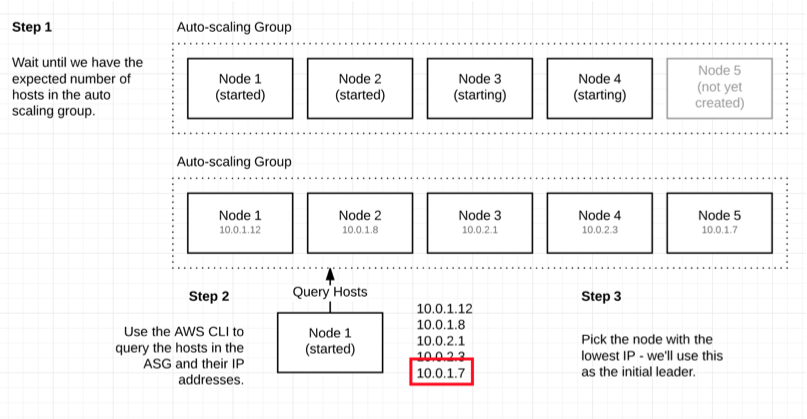
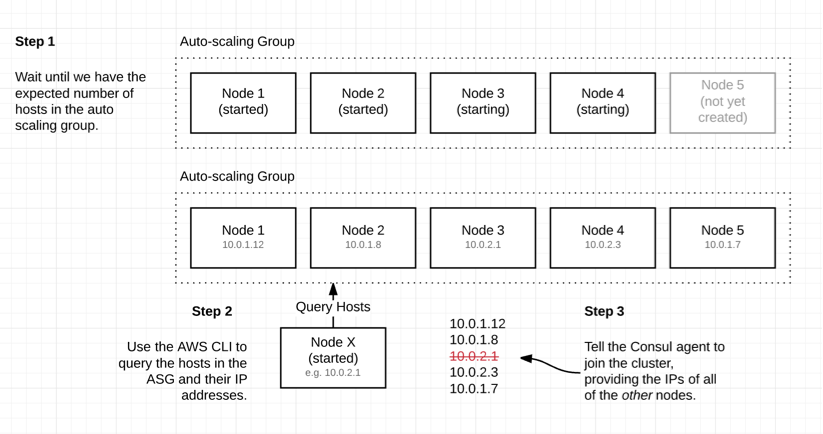
Completed the write up.

diff --git a/article/article.md b/article/article.md
@@ -305,23 +305,19 @@ docker run -d --net=host \
     -bootstrap-expect="5"
 ```
 
-The problem is **this won't work**... We need to tell each node the address of *another* server in the cluster. For example, if we start five nodes, we should tell nodes 2-5 the address of node 1, so that the nodes can discover each other:
-
-![Diagram showing five nodes starting, all joining node 1](/content/images/2017/01/img-11-join-cluster.png)
-
-Every time a new node joins node 1, it will get its IP and broadcast it to the nodes which have originally joined.
+The problem is **this won't work**... We need to tell each node the address of *another* server in the cluster. For example, if we start five nodes, we should tell nodes 2-5 the address of node 1, so that the nodes can discover each other.
 
 The challenge is how do we get the IP of node 1? The IP addresses are determined by the network, we don't preset them so cannot hard code them. Also, we can expect nodes to occasionally die and get recreated, so the IP addresses of nodes will in fact change over time.
 
 ### Getting the IP addresses of nodes in the cluster
 
-There's a nice trick we can use here. We can ask AWS to give us the IP addresses of each host in the auto-scaling group. We then pick an arbitrary IP address to be the leader. Each node needs to pick the *same* leader. A trivial way to do this is simply pick the lowest IP address of the set:
+There's a nice trick we can use here. We can ask AWS to give us the IP addresses of each host in the auto-scaling group. If we tell each node the addresses of the *other nodes*, then they will elect a leader themselves[^14].
 
-![Diagram showing how we decide on a leader IP](/content/images/2017/01/img-12-choose-leader.png)
+![Diagram showing how we decide on a leader IP](/content/images/2017/01/img-12-choose-leader-1.png)
 
 There are a couple of things we need to do to get this right. First, update the userdata script to pick the leader IP, then update the **role** of our nodes so that they have permissions to use the APIs we're going to call.
 
-### Picking a leader IP
+### Getting the Cluster IPs
 
 This is actually fairly straightforward. We update our userdata script to the below:
 
@@ -370,17 +366,19 @@ do
     sleep 1
 done 
 
-# Get my IP address and the initial leader IP address.
+# Get my IP address, all IPs in the cluster, then just the 'other' IPs...
 IP=$(curl http://169.254.169.254/latest/meta-data/local-ipv4)
-LEADER_IP=$(cluster-ips | sort | head -1)
-echo "Instance IP is: $IP, Initial Leader IP is: $LEADER_IP"
+mapfile -t ALL_IPS < <(cluster-ips)
+OTHER_IPS=( ${ALL_IPS[@]/{$IP}/} )
+echo "Instance IP is: $IP, Cluster IPs are: ${CLUSTER_IPS[@]}, Other IPs are: ${OTHER_IPS[@]}"
 
 # Start the Consul server.
 docker run -d --net=host \
     --name=consul \
     consul agent -server -ui \
-    -bind="$IP" -retry-join="$LEADER_IP" \
-    -client="0.0.0.0" \
+    -bind="$IP" \
+    -retry-join="${OTHER_IPS[0]}" -retry-join="${OTHER_IPS[1]}" \
+    -retry-join="${OTHER_IPS[2]}" -retry-join="${OTHER_IPS[3]}" \
     -bootstrap-expect="$EXPECTED_SIZE"
 ```
 
@@ -390,10 +388,9 @@ Right, here's what's going on:
 2. We create a `cluster-instance-ids` function which returns the ID of each instance in the auto-scaling group
 3. We create a `cluster-ips` function which returns the private IP address of each instance in the cluster.
 4. We wait until the auto-scaling group has our expected number of instances (it can take a while for them all to be created)
-5. We get the 5 IP addresses and arbitrarily pick the lowest one as the leader
-6. We start the Consul agent in server mode, expecting 5 nodes and offering the leader IP
-
-What is is important is that each instance will use the *same* leader IP to join the cluster[^14].
+5. We get the 5 IP addresses
+6. We remove our IP from the array, leaving us with the IPs of the *other* nodes
+7. We start the Consul agent in server mode, expecting 5 nodes and offering the IP of each other agent
 
 The problem is, if we try to run the script we will fail, because calling the AWS APIs requires some permissions we don't have. Let's fix that.
 
@@ -493,7 +490,9 @@ On a new EC2 instance, running in either subnet, with the same roles as the Cons
 ```
 # Install Docker
 sudo su
-yum update -y aws-cli docker
+yum update -y 
+yum install docker
+service docker start
 
 # Get my IP and the IP of any node in the server cluster.
 IP=$(curl http://169.254.169.254/latest/meta-data/local-ipv4)
@@ -535,34 +534,43 @@ Now we can check the Consul UI:
 
 ![The Consul UI showing a new service](/content/images/2017/01/img-15-sample-service.png)
 
-And there we have it. Our new node joins the cluster (as a client), we can register a new service and discover it later.
+And there we have it. Our new node joins the cluster (as a client), we can register a new service with Consul.
 
 ## Step 5 - Spanner Throwing
 
-Let's run some tests to see how resilient we are. We should at the very least try:
+According to the [Deployment Table](https://www.consul.io/docs/internals/consensus.html#deployment-table) from the Consul documentation, a cluster of five nodes means we have a quorum of three nodes (i.e. a minimum of three nodes are needed for a working system). This means we can tolerate the failure of two nodes.
 
-1. Killing a consul node, does it build a new quorum automatically and correctly? How long does it take?
-2. Killing the consul leader, same question as above?
-3. Killing 4 nodes at once, can we get back to a quorum?
-4. Spend one hour killing a random node every five minutes, do we maintain a quorum whenever possible?
-5. Kill every node, see what happens!
+The easiest way to test this is to simply manually kill two nodes:
 
-[Netflix](TODO) popularised tests like this with programs such as [Chaos Monkey](TODO) which run around a network killing things, but this is not a new practice. When designing systems it's great to play these kind of games; try and break the system, find novel ways to exercise its robustness. We don't necessarily need to be able to survive each scenario, if there are scenarios we know we cannot recover from automatically, that's fine, at least we can build a playbook for the devops team so we can be prepared.
+![Screenshot showing two AWS instances being terminated](/content/images/2017/01/img-16-terminate.png)
 
-Here's a snippet which kills a random node:
+If we pick two random nodes, as above, and terminate them, we see the cluster determines that we have two failed nodes but will still function (if one was the leader, a new leader will be automatically elected):
 
-```bash
-```
+![Screenshot showing the cluster highlighting two failed nodes](/content/images/2017/01/img-17-node-failure.png)
 
-I've used bash to do the work, more sophisticated tests might be better written in code. The rest of the tests are available to look over in the [./tests](TODO) folder.
+What's nice about this setup is that no manual action is needed to recover. Our load balancer will notice the nodes are unhealthy and stop forwarding traffic. Our auto-scaling group will see the nodes have terminated and create two new ones, which will join the cluster in the same way as the original nodes. Once they join, the load balancer will find them healthy and bring them back into rotation.
+
+We can see from the load balancer monitoring that it notices we have unhealthy nodes and also notices when new ones come into service:
+
+![Screenshot showing the load balancer monitoring](/content/images/2017/01/img-18-recovery-1.png)
+
+A quick check of the admin dashboard shows we now have a recovered system, with five healthy nodes:
+
+![Screenshot showing recovered system]()
+
+There's another failure earlier, a node was lost when I accidentally deleted it rather than the test instance I was running scripts on!
 
 ## Wrapping Up
 
-There's a lot to see here, particularly if you are not particularly familiar with AWS. However, this should provide a good starting point to think about building your own resilient and robust systems. Interesting areas to look into to extend the project might be:
+There's a lot to learn here, particularly if you are not particularly familiar with AWS. However, this should provide a good starting point to think about building your own resilient and robust systems.
 
-1. Automating the tests: Programatically monitor the cluster membership, if each test doesn't eventually result in a cluster of five nodes, the test fails.
-2. Scaling by load: Reduce the quorum to three when load is low, scale up to five only as needed.
-3. Breaking out the script: Instead of using a `user data` script to set up a node, bake it into a new custom AMI with [Packer]()
+Interesting areas to look into to extend the project would be:
+
+1. Setting up alerts so that if we lose more than one node, we are informed
+2. Automating resilience tests by programatically bringing down servers and monitoring how long it takes the system to return to five nodes
+3. Auto-scaling by load by reducing the cluster to three when load is low, scale up to five only as needed
+4. Breaking out the script: Instead of using a `user data` script to set up a node, bake it into a new custom AMI with [Packer](https://www.packer.io/)
+5. Adding alerts for if we lose three of more nodes, which always requires manual intervention (see [Outage Recovery](https://www.consul.io/docs/guides/outage.html))
 
 If you find this article, please do let me know. Any questions or comments are welcome!
 
@@ -570,24 +578,27 @@ If you find this article, please do let me know. Any questions or comments are w
 
 ## Appendix 1: Logging
 
-I would not normally create a userdata script expect everything to work, there's too much that can go wrong. I actually set up the server like this is:
+Small typos or mistakes in the userdata script are almost impossible to effectively diagnose. The scripts were actually built in this way:
 
 1. Draft a script on my local machine which configures script logging and CloudWatch[^13]
 2. Spin up a new EC2 instance manually
 3. SSH onto the instance, and run the script line by line until I'm sure it's right
 
-This'll often take a few attempts, particularly to get security groups right (which will require recreating the instance). I've deliberately omitted the code which relates to CloudWatch and logging setup as it is purely for admin diagnostics and doesn't contribute to the main topic. If you want more details, let me know, or just check the code.
+This'll often take a few attempts, particularly to get security groups right (which will require recreating the instance). 
 
-TODO relevant lines:
-- a
-- b
-- c
+I've included CloudWatch logging in the actual setup, so that it is easy to check the userdata script log, docker logs and so on. I've deliberately omitted the code which relates to this as it is purely for diagnostics and doesn't contribute to the main topic. If you want more details, let me know, or just check the code. I would heartily recommend setting up logging like this for all but the most straightforward projects:
+
+![Screenshot showing logs](/content/images/2017/01/img-19-cloudwatch-1.png)
+
+Being able to diagnose issues like this is vital when working with distributed systems which may be generating many log files.
 
 ---
 
+**Footnotes**
+
 [^1]: This kind of pattern is critical in the world of microservices, where many small services will be running on a cluster. Services may die, due to errors or failing hosts, and be recreated on new hosts. Their IPs and ports may be ephemeral.It is essential that the system as a whole has a registry of where each service lives and how to access it. Such a registry must be *resilient*, as it is an essential part of the system.
 
-[^2]: Most popular is a fairly loose term.  https://www.gartner.com/doc/reprints?id=1-2G2O5FC&ct=150519&st=sb and 
+[^2]: Most popular is a fairly loose term. Well ranked by Gartner and anecdotally with the largest infrastructure footprint. https://www.gartner.com/doc/reprints?id=1-2G2O5FC&ct=150519&st=sb and 
 
 [^3]: This is AWS parlance again. An availabilty zone is an isolated datacenter. Theoretically, spreading nodes across AZs will increase resilience as it is less likely to have catastrophic failures or outages across multiple zones.
 
@@ -607,22 +618,13 @@ TODO relevant lines:
 
 [^13]: Amazon's service for managing and aggregating logs
 
-[^14]: There's actually an even better way, we can provide *each* IP address to each node, by providing additional `-join` flags. I'll leave this as something you can investigate yourself.
+[^14]: This is a fairly sophisticated topic in itself, see [Consul - Consensus Protocol](https://www.consul.io/docs/internals/consensus.html) for details.
 
-[^15]: In fact, we actually have more permissions required, because in the 'real' code we also have logs forwarded to CloudWatch. See [here](TODO) for the details.
-
----
+[^15]: In fact, we actually have more permissions required, because in the 'real' code we also have logs forwarded to CloudWatch.
 
 ---
 
-Further Reading:
+**Further Reading**
 
 1. [Consul - Consensus Protocol](https://www.consul.io/docs/internals/consensus.html)
 2. [What you have to know about Consul and how to beat the outage problem](https://sitano.github.io/2015/10/06/abt-consul-outage/), John Koepi
-
-
-
-Notes:
-
-- Quorum is 3, losing quorum requires manual intervention (i.e. alarm)
-- 

diff --git a/README.md b/README.md
@@ -1,6 +1,6 @@
 # terraform-consul-cluster
 
-This repo demostrates how to create a resiliant [Consul](TODO) cluster running on [AWS](TODO), using [Terraform](TODO). It is the companion project to my article '[Creating a Resiliant Consul Cluster for Microservice Discovery on AWS with Terraform](TODO)'.
+This repo demostrates how to create a resiliant Consul cluster running on AWS, using Terraform. It is the companion project to my article '[Creating a Resilient Consul Cluster for Docker Microservice Discovery with Terraform and AWS](http://www.dwmkerr.com/creating-a-resilient-consul-cluster-for-docker-microservice-discovery-with-terraform-and-aws/)'.
 
 ## Prerequisites
 
@@ -11,7 +11,7 @@ Please install the following components:
 
 ## Creating the Cluster
 
-To create the cluster, register for an AWS account. You'll need to keep track of your *Secret Key* and *Access Key*. For instructions, see '[AWS Setup](TODO)'.
+To create the cluster, register for an AWS account. You'll need to keep track of your *Secret Key* and *Access Key*. For instructions.
 
 Now just run:
 
@@ -22,10 +22,14 @@ terraform apply
 You will be asked to provide your Secret Key, Access Key and Region. When the provisioning is complete, you should see a message like:
 
 ```
-TODO your cluster is ready! http://232.23.1.24:8000
+Apply complete! Resources: 19 added, 0 changed, 0 destroyed.
+
+...
+
+consul-dns = consul-lb-734949600.ap-southeast-1.elb.amazonaws.com
 ```
 
-Navigate to the URL provided and you will see the Consul interface, with some example microservices.
+Navigate to port 8500 at address provided (e.g. http://consul-lb-734949600.ap-southeast-1.elb.amazonaws.com:8500) and you will see the Consul interface.
 
 ## Destroying the Cluster
 
@@ -40,13 +44,17 @@ terraform destroy
 The project has the following structure:
 
 ```
-variables.tf        # The basic terraform variables. Used in later files.
-network.tf          # Network configuration. Defines the VPC, subnet, access etc.
-cluster.tf          # Cluster configuration. Defines the Auto-scaling group, auto-scaling instance config etc.
-microservices.tf    # Microservice configuration. Sample microservices which attempt to register themselves.
+variables.tf         # The basic terraform variables. Used in later files.
+network.tf           # Network configuration. Defines the VPC, subnets, access etc.
+consul-cluster.tf    # Cluster configuration. Defines the Auto-scaling group, auto-scaling instance config etc.
+consul-node-role.tf  # Defines policies and a role for cluster nodes.
+outputs.tf           # Useful data we capture when creating infrastructure.
+files/consul-node.sh # Setup script for the cluster nodes.
+example-service/     # A goofy example microservice used to test the project.
 ```
 
-## Tasks
+## More info
 
-- [ ] Complete up to 'step 1', which is creating the network
-- [ ] Complete up to 'step 2', which is creating the consul hosts (and ac)
+A detailed write up of how this code works is available at:
+
+http://www.dwmkerr.com/creating-a-resilient-consul-cluster-for-docker-microservice-discovery-with-terraform-and-aws/
